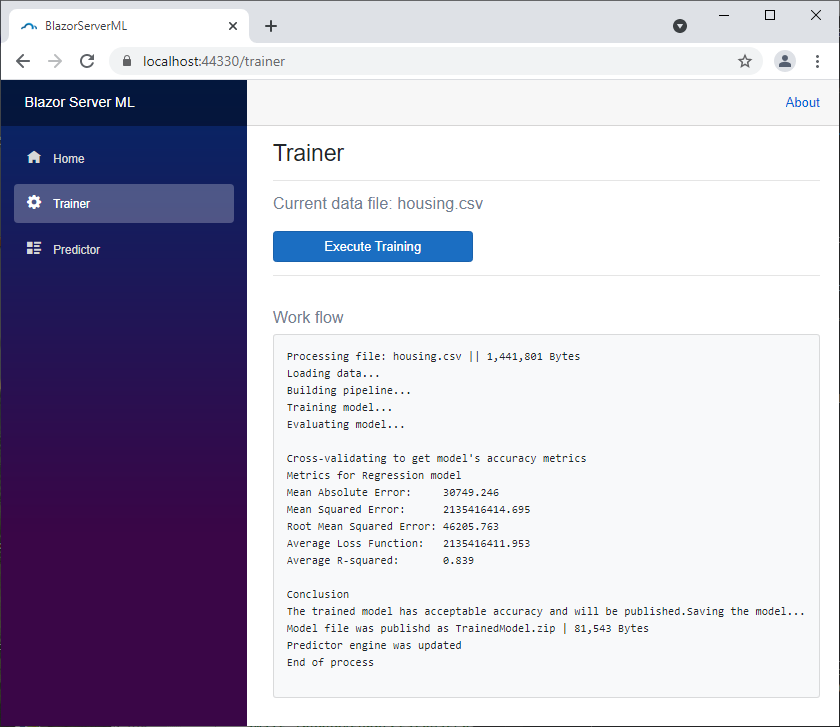
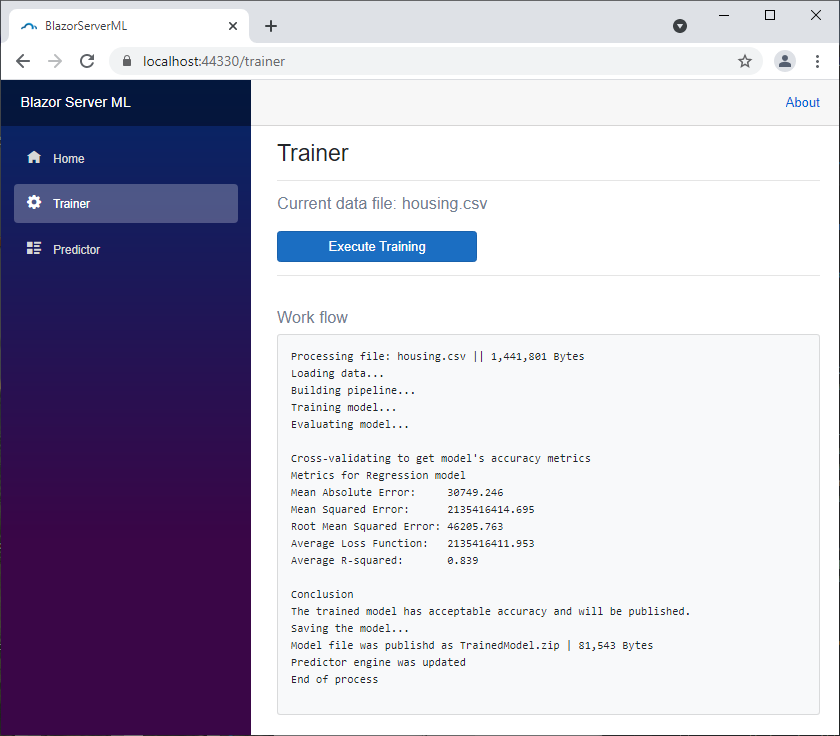
Screen

diff --git a/BlazorServerML/ML/Trainer.cs b/BlazorServerML/ML/Trainer.cs
@@ -68,8 +68,8 @@ namespace BlazorServerML.ML
                                $"{ACCEPTED_ACCURACY}, and will not be published.");
                 }
                 else {
-                    await Echo($"The trained model has acceptable accuracy and will be published." +
-                               $"Saving the model...");
+                    await Echo($"The trained model has acceptable accuracy and will be published.");
+                    await Echo($"Saving the model...");
                     _ml.Model.Save(model, trainingDataView.Schema, MODEL_PATH);
                     await Echo($"Model file was publishd as {MODEL_FILE} " + 
                                $"| {new FileInfo(MODEL_PATH).Length:#,###,###} Bytes");

diff --git a/BlazorServerML/Startup.cs b/BlazorServerML/Startup.cs
@@ -15,6 +15,8 @@ namespace BlazorServerML
 {
     public class Startup
     {
+        public IConfiguration Configuration { get; }
+
         public static string PATH { get; private set; }
 
         public Startup(IConfiguration configuration, IWebHostEnvironment env)
@@ -23,8 +25,6 @@ namespace BlazorServerML
 
             PATH = env.ContentRootPath;
         }
-
-        public IConfiguration Configuration { get; }
 
         // This method gets called by the runtime. Use this method to add services to the container.
         // For more information on how to configure your application, visit https://go.microsoft.com/fwlink/?LinkID=398940
